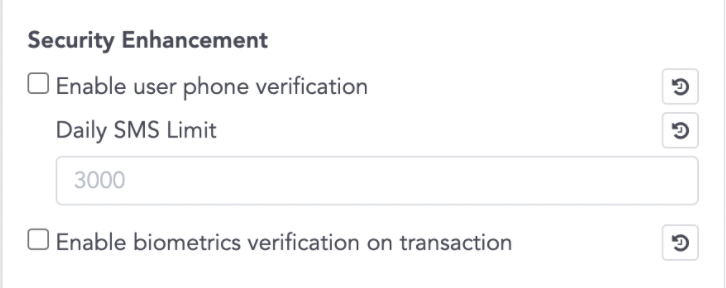
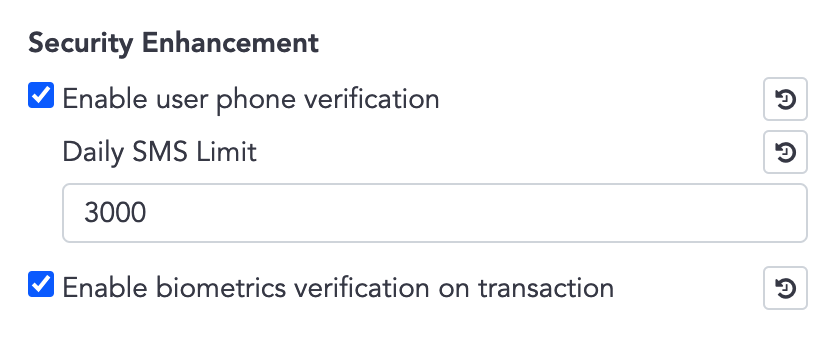
doc: revise doc (NFT, Bio) - by Eva
* revise doc (NFT, Bio)

* Update bio_n_sms.md

* Update bio_n_sms.md

* Update NFT.md

* Update bio_n_sms.md

* Update bio_n_sms.md

diff --git a/docs/bio_n_sms.md b/docs/bio_n_sms.md
@@ -7,10 +7,12 @@
 
 ## UserState
 
-- Biometrics verification was controlled in the Security Enhancement Section at the Admin panel.  
+- Biometrics verification is controlled in the Security Enhancement section on the admin panel.  
 
   <img src="images/sdk_guideline/screenshot_security_enhancement.png" alt="drawing" width="400"/> 
-
+- Although biometrics verification is applied globally, in User Management,  administrator still can set single user to skip SMS / biometrics verification.   
+  <img src="images/sdk_guideline/screenshot_skip_sms_1.png" alt="drawing" width="400"/>   
+  <img src="images/sdk_guideline/screenshot_skip_sms_2.png" alt="drawing" width="800"/> 
     ```swift
     public protocol UserState {
 
@@ -24,13 +26,40 @@
     }
     ```
 
-- `if (enableBiometrics && !skipSmsVerify)` ➜ need Biometrics / SMS verification for every transaction operation
+- `if (enableBiometrics && !skipSmsVerify)` ➜ need biometrics / SMS verification for transaction and sign operation
 
-- `if (accountSkipSmsVerify == true)` ➜ cannot use SMS for verification, use Biometrics verification instead.
+- `if (accountSkipSmsVerify == true)` ➜ cannot use SMS for verification, use biometrics verification instead.
 
-    e.g. Apple Sign-In can only verify transactions with Biometrics
+    e.g. Only biometrics verification available for Apple Sign-In account.
 
-- There are two versions (Biometrics and SMS) for following transaction APIs:
+## Biometrics / SMS Verification Setup
+
+![img](images/sdk_guideline/biometric_verification.png)
+
+- Must set up before performing APIs which mentioned in next section.
+- Steps:
+    1. Check if the user needs biometrics / SMS verification
+    2. Call `updateDeviceInfo`, pass nil Wallet SDK will decide the value for you.
+        - Pass `.NONE` means you are registering for SMS verification
+    3. Call `getBiometricsType` ➜ supported biometric type
+    4. `if (BiometryType != .NONE)` ➜ call `registerPubkey`
+    5. `if (BiometryType == .NONE)` && `accountSkipSmsVerify` ➜ prompt error. ex. Device not support biometrics, please contact with system admin.
+
+```swift
+/// Get device's biometrics type
+/// - Returns: BiometryType { NONE / FACE / FINGER }
+public func getBiometricsType() -> CYBAVOWallet.BiometryType
+
+/// Update device's biometrics type, detect type by sdk
+/// - Parameters:
+///   - type: BiometricsType's raw value, pass nil for 
+///   - completion: asynchronous callback
+public func updateDeviceInfo(type: Int?, completion: @escaping CYBAVOWallet.Callback<CYBAVOWallet.UpdateDeviceInfoResult>)
+
+public func registerPubkey(completion: @escaping CYBAVOWallet.Callback<CYBAVOWallet.RegisterPubkeyResult>)
+```
+## Biometrics / SMS Verification for transaction and sign operation
+- There are two versions (biometrics and SMS) for following transaction  / sign APIs:
   - createTransaction
   - requestSecureToken
   - signRawTx
@@ -44,39 +73,12 @@
   - walletConnectSignMessage
   - cancelWalletConnectTransaction
 
-  Example:
-  - SMS version has the suffix 'Sms', ex. createTransactionSms
-  - Biometrics version has the suffix 'Bio', ex. createTransactionBio
-
-## Biometrics / SMS Verification Setup
-
-![img](images/sdk_guideline/biometric_verification.jpg)
-
-- Must set up before doing any transactions.
-- Steps:
-    1. call `getBiometricsType` ➜ supported biometric type
-    2. call `updateDeviceInfo`, pass nil for default
-        - if pass `.NONE` means you are registering for SMS verification
-    3. `if (BiometryType != .NONE)` ➜ call `registerPubkey`
-
-```swift
-/// Get device's biometrics type
-/// - Returns: BiometryType { NONE / FACE / FINGER }
-public func getBiometricsType() -> CYBAVOWallet.BiometryType
-
-/// Update device's biometrics type, detect type by sdk
-/// - Parameters:
-///   - type: BiometricsType's raw value, pass nil for default
-///   - completion: asynchronous callback
-public func updateDeviceInfo(type: Int?, completion: @escaping CYBAVOWallet.Callback<CYBAVOWallet.UpdateDeviceInfoResult>)
-
-public func registerPubkey(completion: @escaping CYBAVOWallet.Callback<CYBAVOWallet.RegisterPubkeyResult>)
-```
-
-## getTransactionSmsCode
-
+- SMS version has the suffix 'Sms', ex. createTransactionSms
+- Biometrics version has the suffix 'Bio', ex. createTransactionBio
+### SMS version
+#### getTransactionSmsCode
 - Send a SMS to the user
-- `actionToken` + `OTP code` ➜ call SMS series functions
+- `actionToken` + `OTP code` + `PinSecret / PinCode` ➜ call SMS version function
 
 ```swift
 /// get SMS code for transaction
@@ -85,3 +87,5 @@ public func registerPubkey(completion: @escaping CYBAVOWallet.Callback<CYBAVOWal
 ///   - completion: asynchronous callback
 public func getTransactionSmsCode(duration: Int64, completion: @escaping CYBAVOWallet.Callback<CYBAVOWallet.GetActionTokenResult>)
 ```
+### Biometrics version
+- `promptMessage` + `PinSecret / PinCode` ➜ call biometrics version function

diff --git a/docs/NFT.md b/docs/NFT.md
@@ -9,7 +9,8 @@
 
 ## NFT Wallet Creation
 
-- First of all, you need to create a new wallet with the specific token, call `addContractCurrency`.
+- Suppose you'd like to receive some NFT tokens with Wallet SDK, but there's no that kind of `Currency` in the currency list, you can add NFT currency by calling `addContractCurrency`.  
+If that kind of `Currency` is already exist, there's no need to add again.
 
 ```swift
 /// [NFT] Add a new token & create first wallet
@@ -24,18 +25,19 @@ public func addContractCurrency(currency: Int64, contractAddress: String, pinSec
 public func addContractCurrencies(currency: [Int64], contractAddress: [String], pinSecret: CYBAVOWallet.PinSecret, completion: @escaping CYBAVOWallet.Callback<CYBAVOWallet.AddContractCurrenciesResult>)
 ```
 
-- How to get a contractAddress?
+- How to get contract address?  
+You can find it on blockchain explorer.  
+Take CryptoKitties for example, you can find its contract address on Etherscan 
   ![img](images/sdk_guideline/nft_etherscan_1.png)
-  ![img](images/sdk_guideline/nft_etherscan_2.png)
 
 ## NFT Wallet List
 
 ![img](images/sdk_guideline/nft_wallets.jpg)
 
-- No need to call APIs again, Refer to: [Wallet Information](wallets.md#wallet-information)
+- Same way as we mentioned in [Wallet Information](wallets.md#wallet-information)
 - Conditions:
   - `Wallet.isPrivate == false` ➜ it is on public chain
-  - `tokenAddress != ""` ➜ it is a mapped wallet (NFT wallet is one type of mapped wallet)
+  - `tokenAddress != ""` ➜ it is a mapped wallet (NFT wallet is also mapped wallet)
   - `Currency.tokenVersion == 721 || 1155` ➜ it is an NFT wallet
 
 ## Balance
@@ -56,6 +58,17 @@ protocol Balance {
 - if ERC-721 (NFT), use `tokens`
 - if ERC-1155 (NFT), use `tokenIdAmounts`
 
+- In order to present images, call `getMultipleTokenUri` to get token urls.
+  
+  ```swift
+  /// Get NFT Token URI
+  /// - Parameters:
+  ///   - currency: Currency of token to query
+  ///   - tokenAddresses: Array of token address to query
+  ///   - tokenIds: Array of token address to query
+  ///   - completion: asynchronous callback of [String : CYBAVOWallet.TokenUriInfo]
+  public func getMultipleTokenUri(currency: Int, tokenAddresses: [String], tokenIds: [String], completion: @escaping CYBAVOWallet.Callback<CYBAVOWallet.GetMultipleTokenUriReponse>)
+  ```
 ### Error Handling
 
 - for ERC-1155
@@ -86,14 +99,3 @@ protocol Balance {
 
 - The steps are similar to normal transactions. Refer to [getHistory](transaction.md#gethistory)
 
-- In order to present images, call `getMultipleTokenUri` to get token urls.
-  
-  ```swift
-  /// Get NFT Token URI
-  /// - Parameters:
-  ///   - currency: Currency of token to query
-  ///   - tokenAddresses: Array of token address to query
-  ///   - tokenIds: Array of token address to query
-  ///   - completion: asynchronous callback of [String : CYBAVOWallet.TokenUriInfo]
-  public func getMultipleTokenUri(currency: Int, tokenAddresses: [String], tokenIds: [String], completion: @escaping CYBAVOWallet.Callback<CYBAVOWallet.GetMultipleTokenUriReponse>)
-  ```
